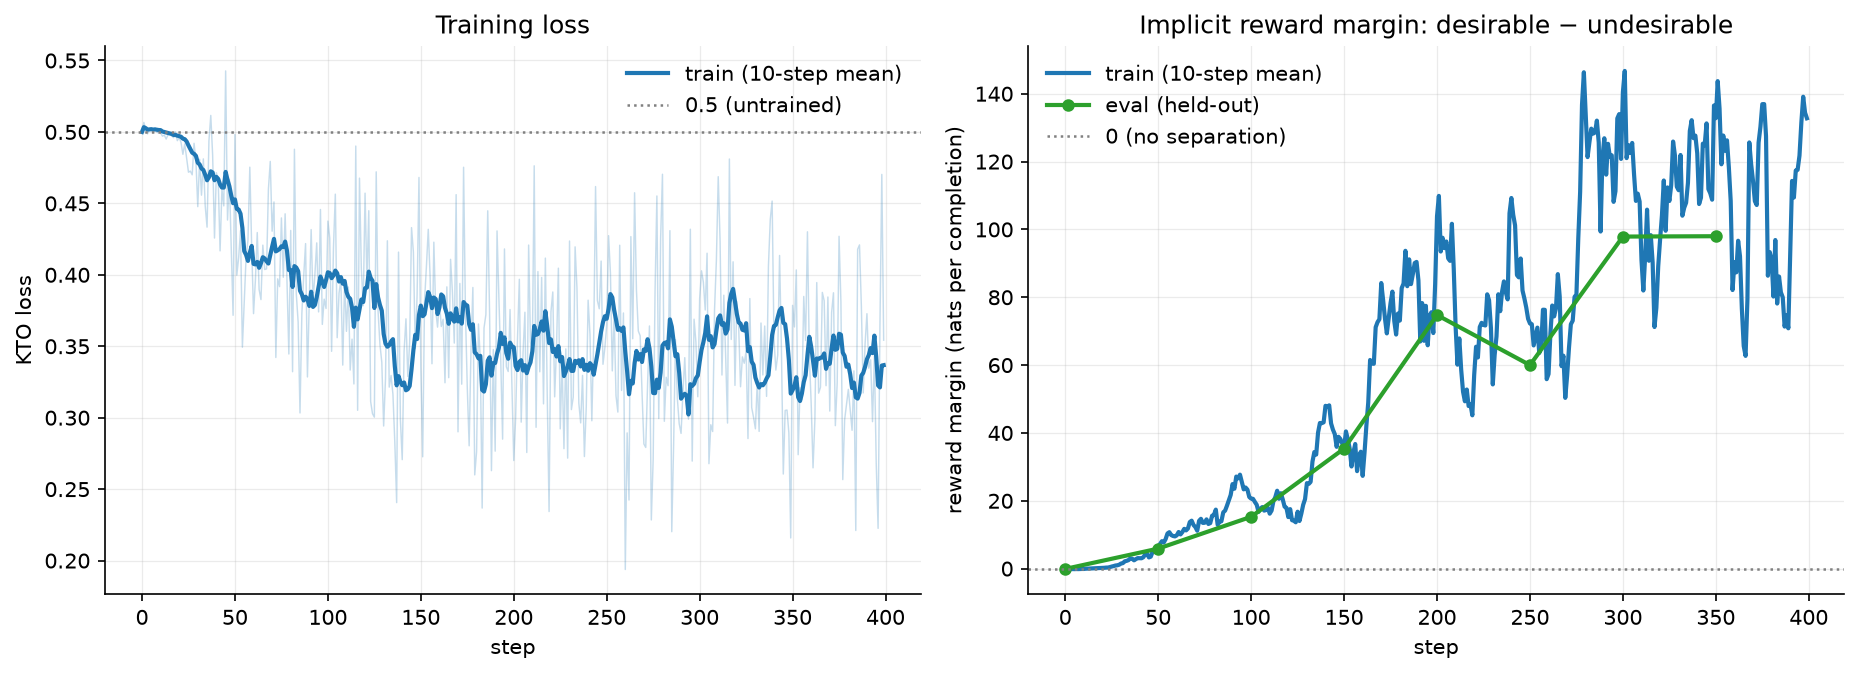
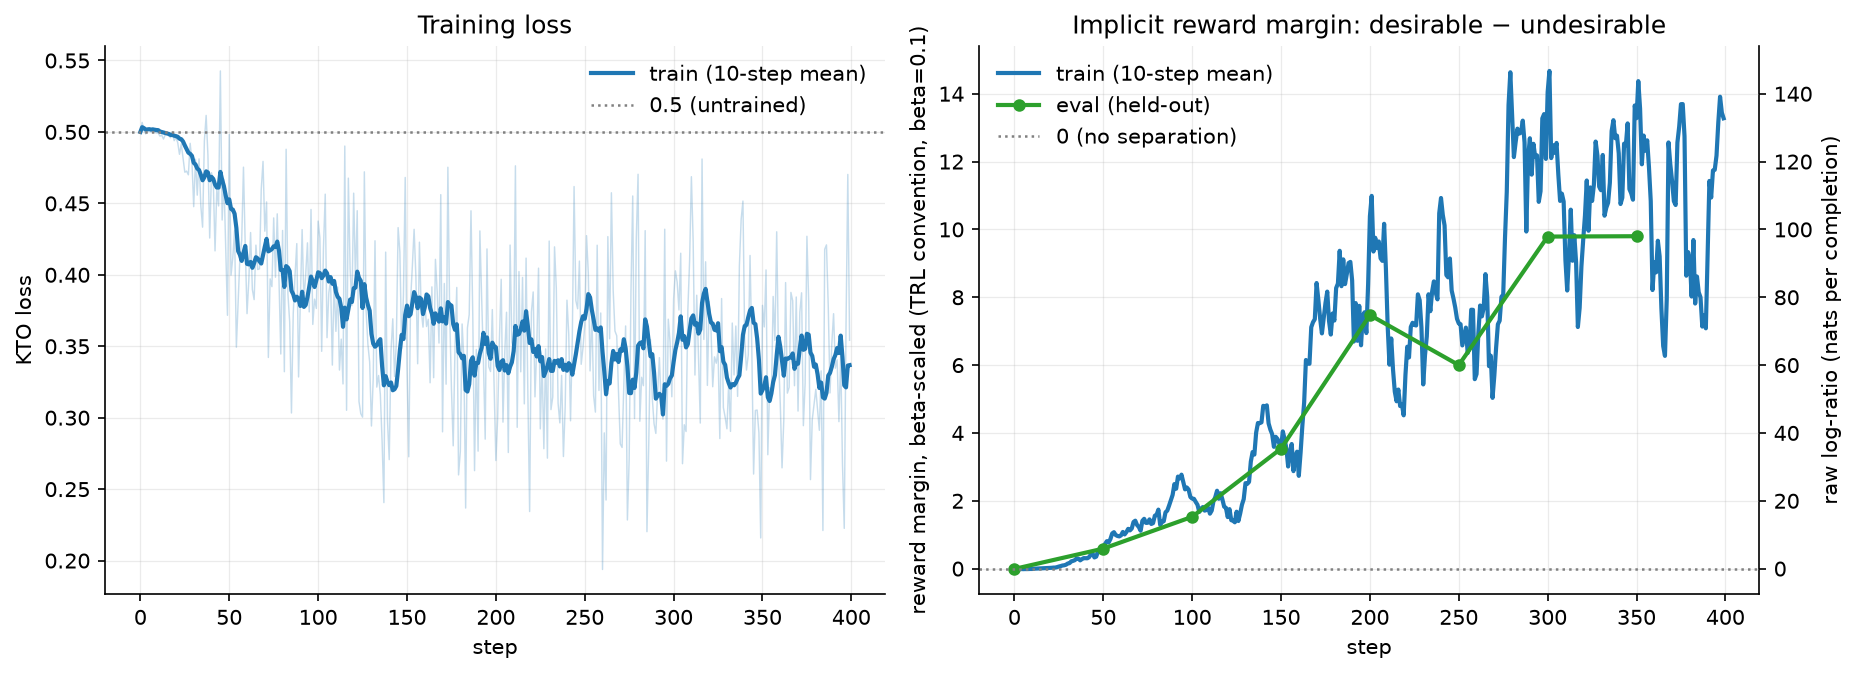
Add step-tagged eval examples to validation_examples.jsonl during KTO eval passes and plot the reward margin beta-scaled for TRL comparability

diff --git a/training_sessions_cookbook/preference/train.py b/training_sessions_cookbook/preference/train.py
@@ -349,15 +349,21 @@ async def _matched_reference_sums(batches, *, source, training_client, ref_clien
 
 
 async def _evaluate_kto(training_client, eval_batches, eval_ref_matched, *,
-                        z_ref, sdk, watchdog) -> dict:
+                        z_ref, sdk, watchdog, step=None, run_folder=None,
+                        tokenizer=None, examples_per_eval=8) -> dict:
     """Held-out KTO diagnostics: reward margin, accuracy, and per-class log-probs.
 
     Forward-only (no gradient). Rewards are ``logπ_θ − logπ_ref`` on the eval
     completions; ``accuracy`` uses the current training ``z_ref`` as the
     threshold (desirable above it, undesirable below). ``reward_margin`` needs
     no threshold and is the headline held-out number.
+
+    When ``run_folder`` and ``tokenizer`` are given, the first
+    ``examples_per_eval`` examples of each pass are appended to
+    ``validation_examples.jsonl`` with their decoded text and rewards.
     """
     rewards_d, rewards_u, logps_d, logps_u, correct, total = [], [], [], [], 0, 0
+    records = []
     for bi, (batch, ref_sums) in enumerate(zip(eval_batches, eval_ref_matched)):
         slices = [matched_slice(ex) for ex in batch]
         datums = [forward_datum(inp, tgt, mask) for inp, tgt, mask in slices]
@@ -372,6 +378,20 @@ async def _evaluate_kto(training_client, eval_batches, eval_ref_matched, *,
             if (ex.label and reward > z_ref) or (not ex.label and reward < z_ref):
                 correct += 1
             total += 1
+            if tokenizer is not None and len(records) < examples_per_eval:
+                records.append({
+                    "step": step,
+                    "prompt": tokenizer.decode(ex.prompt_tokens),
+                    "completion": tokenizer.decode(ex.completion_tokens),
+                    "label": "desirable" if ex.label else "undesirable",
+                    "logp_policy": round(policy_sum, 3),
+                    "logp_ref": round(ref_sum, 3),
+                    "reward": round(reward, 3),
+                })
+    if run_folder is not None and records:
+        with open(os.path.join(run_folder, "validation_examples.jsonl"), "a") as f:
+            for r in records:
+                f.write(json.dumps(r, ensure_ascii=False) + "\n")
 
     mean = lambda xs: (sum(xs) / len(xs)) if xs else float("nan")
     return {
@@ -626,7 +646,8 @@ async def _train(args, session_name, runlog, svc, training_client, tokenizer,
             if eval_batches and args.eval_every > 0 and step % args.eval_every == 0:
                 eval_metrics = await _evaluate_kto(
                     training_client, eval_batches, eval_ref_matched,
-                    z_ref=metrics.get("kto/z_ref", 0.0), sdk=sdk, watchdog=watchdog)
+                    z_ref=metrics.get("kto/z_ref", 0.0), sdk=sdk, watchdog=watchdog,
+                    step=step, run_folder=runlog.run_folder, tokenizer=tokenizer)
                 metrics.update(eval_metrics)
                 logger.info("  eval reward_margin=%.4f accuracy=%.4f",
                             eval_metrics.get("kto/eval_reward_margin", float("nan")),

diff --git a/training_sessions_cookbook/recipes/preference_kto/plots.py b/training_sessions_cookbook/recipes/preference_kto/plots.py
@@ -70,8 +70,19 @@ def _train_eval_panel(ax, steps, train_raw, ev_steps, ev_vals, *, window, ylabel
     _style(ax)
 
 
+def _run_beta(metrics_path: str) -> float | None:
+    """beta from the config.json beside the metrics, if present."""
+    cfg = os.path.join(os.path.dirname(os.path.abspath(metrics_path)), "config.json")
+    try:
+        with open(cfg) as f:
+            return float(json.load(f).get("beta"))
+    except (OSError, TypeError, ValueError):
+        return None
+
+
 def plot_kto_run(metrics_path: str, output_dir: str, window: int = 10) -> list[str]:
     records = [json.loads(line) for line in open(metrics_path)]
+    beta = _run_beta(metrics_path)
     steps = [r["step"] for r in records]
     evals = [r for r in records if "kto/eval_reward_margin" in r]
     ev_steps = [r["step"] for r in evals]
@@ -97,12 +108,21 @@ def plot_kto_run(metrics_path: str, output_dir: str, window: int = 10) -> list[s
     ax1.legend(frameon=False)
     _style(ax1)
 
+    # Plot the margin beta-scaled (TRL logs rewards as beta*log-ratio, so this
+    # is the scale to compare against TRL charts); raw log-ratio on the right.
+    scale = beta if beta else 1.0
     _train_eval_panel(
-        ax2, steps, series("kto/reward_margin"),
-        ev_steps, eval_series("kto/eval_reward_margin"),
-        window=window, ylabel="reward margin (nats per completion)",
+        ax2, steps, [scale * v for v in series("kto/reward_margin")],
+        ev_steps, [scale * v for v in eval_series("kto/eval_reward_margin")],
+        window=window,
+        ylabel=(f"reward margin, beta-scaled (TRL convention, beta={beta:g})"
+                if beta else "reward margin (raw log-ratio, nats per completion)"),
         baseline=0, baseline_label="0 (no separation)", show_raw=False)
     ax2.set_title("Implicit reward margin: desirable \u2212 undesirable")
+    if beta:
+        ax2r = ax2.secondary_yaxis(
+            "right", functions=(lambda v: v / beta, lambda v: v * beta))
+        ax2r.set_ylabel("raw log-ratio (nats per completion)")
     fig.tight_layout()
     path = os.path.join(output_dir, "learning.png")
     fig.savefig(path, dpi=150, bbox_inches="tight")

diff --git a/tests/test_kto.py b/tests/test_kto.py
@@ -386,3 +386,46 @@ def test_evaluate_kto_returns_held_out_metrics():
     assert "kto/eval_logps_desirable" in metrics
     # Forward-only: no optimizer step was taken during eval.
     assert client.optim_calls == 0
+
+
+def test_evaluate_kto_writes_validation_examples(tmp_path):
+    import asyncio, json
+    from training_sessions_cookbook.preference.data import KtoExample
+
+    class _Tok:
+        def decode(self, toks):
+            return f"<{len(toks)} toks>"
+
+    class _SDK:
+        fwd_loss = "cross_entropy"
+
+    class _Watchdog:
+        async def guard(self, coro, what=""):
+            return await coro
+
+    ex_d = KtoExample(prompt_tokens=[1, 2], completion_tokens=[3, 4], label=True,
+                      kl_completion_tokens=[5, 6])
+    ex_u = KtoExample(prompt_tokens=[1, 2], completion_tokens=[7, 8], label=False,
+                      kl_completion_tokens=[5, 6])
+
+    class _Client:
+        async def forward_async(self, datums, loss_fn):
+            async def _result():
+                n = sum(len(d["modelInput"]["chunks"][0]["tokens"]) + 1 for d in datums)
+                return _Result(loss_fn_outputs=[{"logprobs": {"data": [-1.0] * n}}])
+            class _Op:
+                def result_async(self):
+                    return _result()
+            return _Op()
+
+    metrics = asyncio.run(ktrain._evaluate_kto(
+        _Client(), [[ex_d, ex_u]], [[-5.0, -1.0]],
+        z_ref=0.0, sdk=_SDK(), watchdog=_Watchdog(),
+        step=7, run_folder=str(tmp_path), tokenizer=_Tok()))
+
+    lines = [json.loads(l) for l in open(tmp_path / "validation_examples.jsonl")]
+    assert len(lines) == 2
+    assert lines[0]["step"] == 7
+    assert {l["label"] for l in lines} == {"desirable", "undesirable"}
+    assert all("reward" in l and "prompt" in l for l in lines)
+    assert metrics["kto/eval_num_examples"] == 2

diff --git a/training_sessions_cookbook/recipes/preference_kto/README.md b/training_sessions_cookbook/recipes/preference_kto/README.md
@@ -54,7 +54,9 @@ Every `--eval_every` steps a **held-out** pass adds `kto/eval_reward_margin`,
 `kto/eval_logps_desirable` / `_undesirable` to that step's record (forward-only,
 using the step's `z_ref` as the accuracy threshold). The held-out
 `kto/eval_reward_margin` is the metric to trust for whether KTO is actually
-helping — training margins can widen while the model degrades.
+helping — training margins can widen while the model degrades. In the reference
+run every metric plateaued by step ~300 of 400; stop the run once
+`kto/eval_reward_margin` is flat across two consecutive eval passes.
 
 A widening `kto/reward_margin` (train **and** eval) with a stable `kto/z_ref`
 and non-collapsing `kto/logps_*` is the signal that the model is learning to
